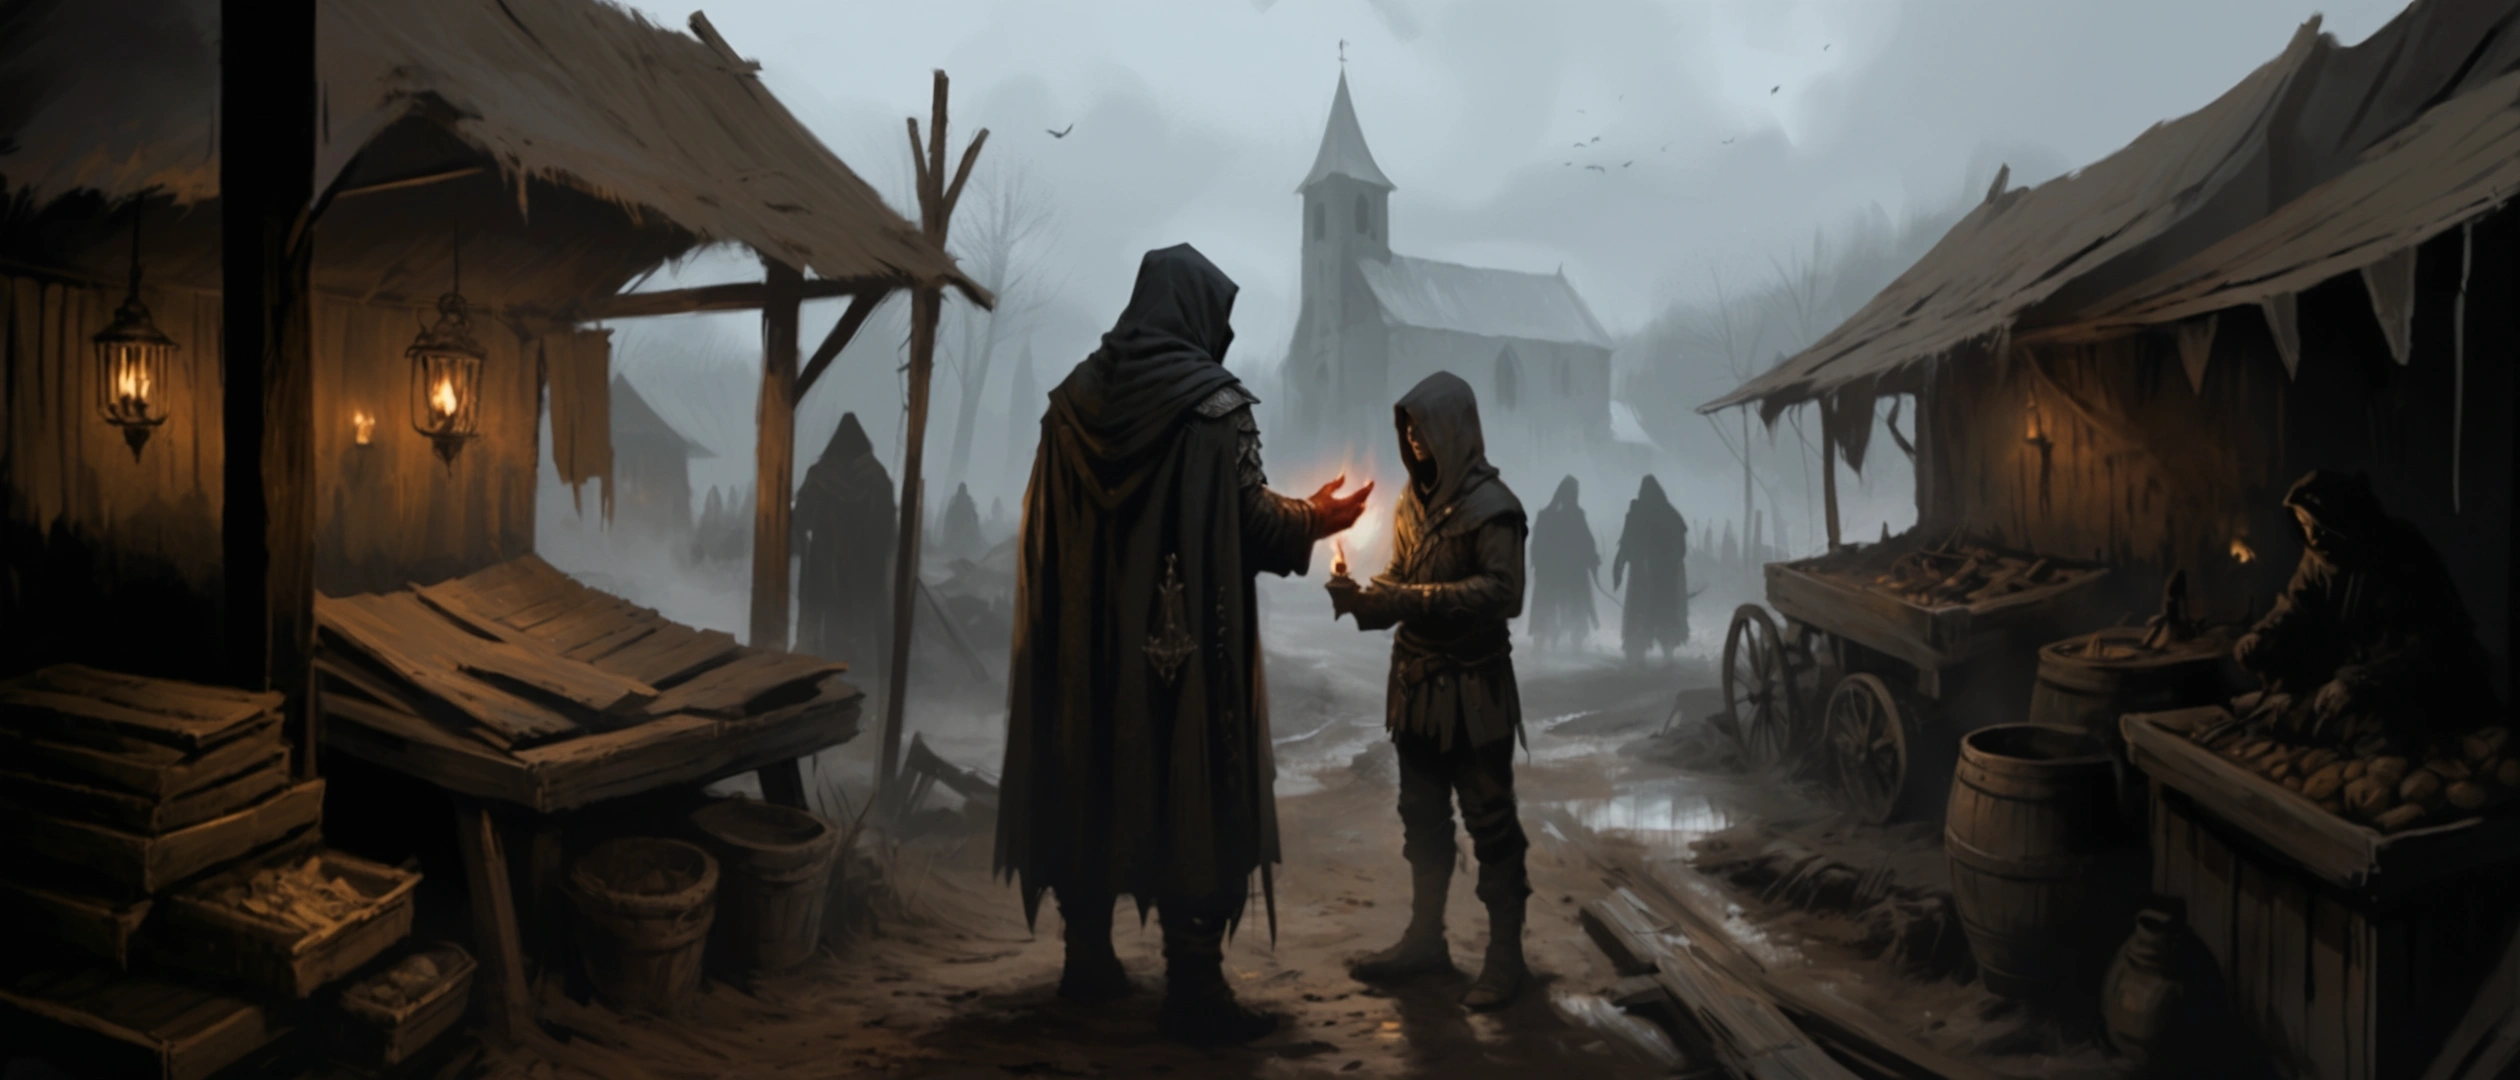
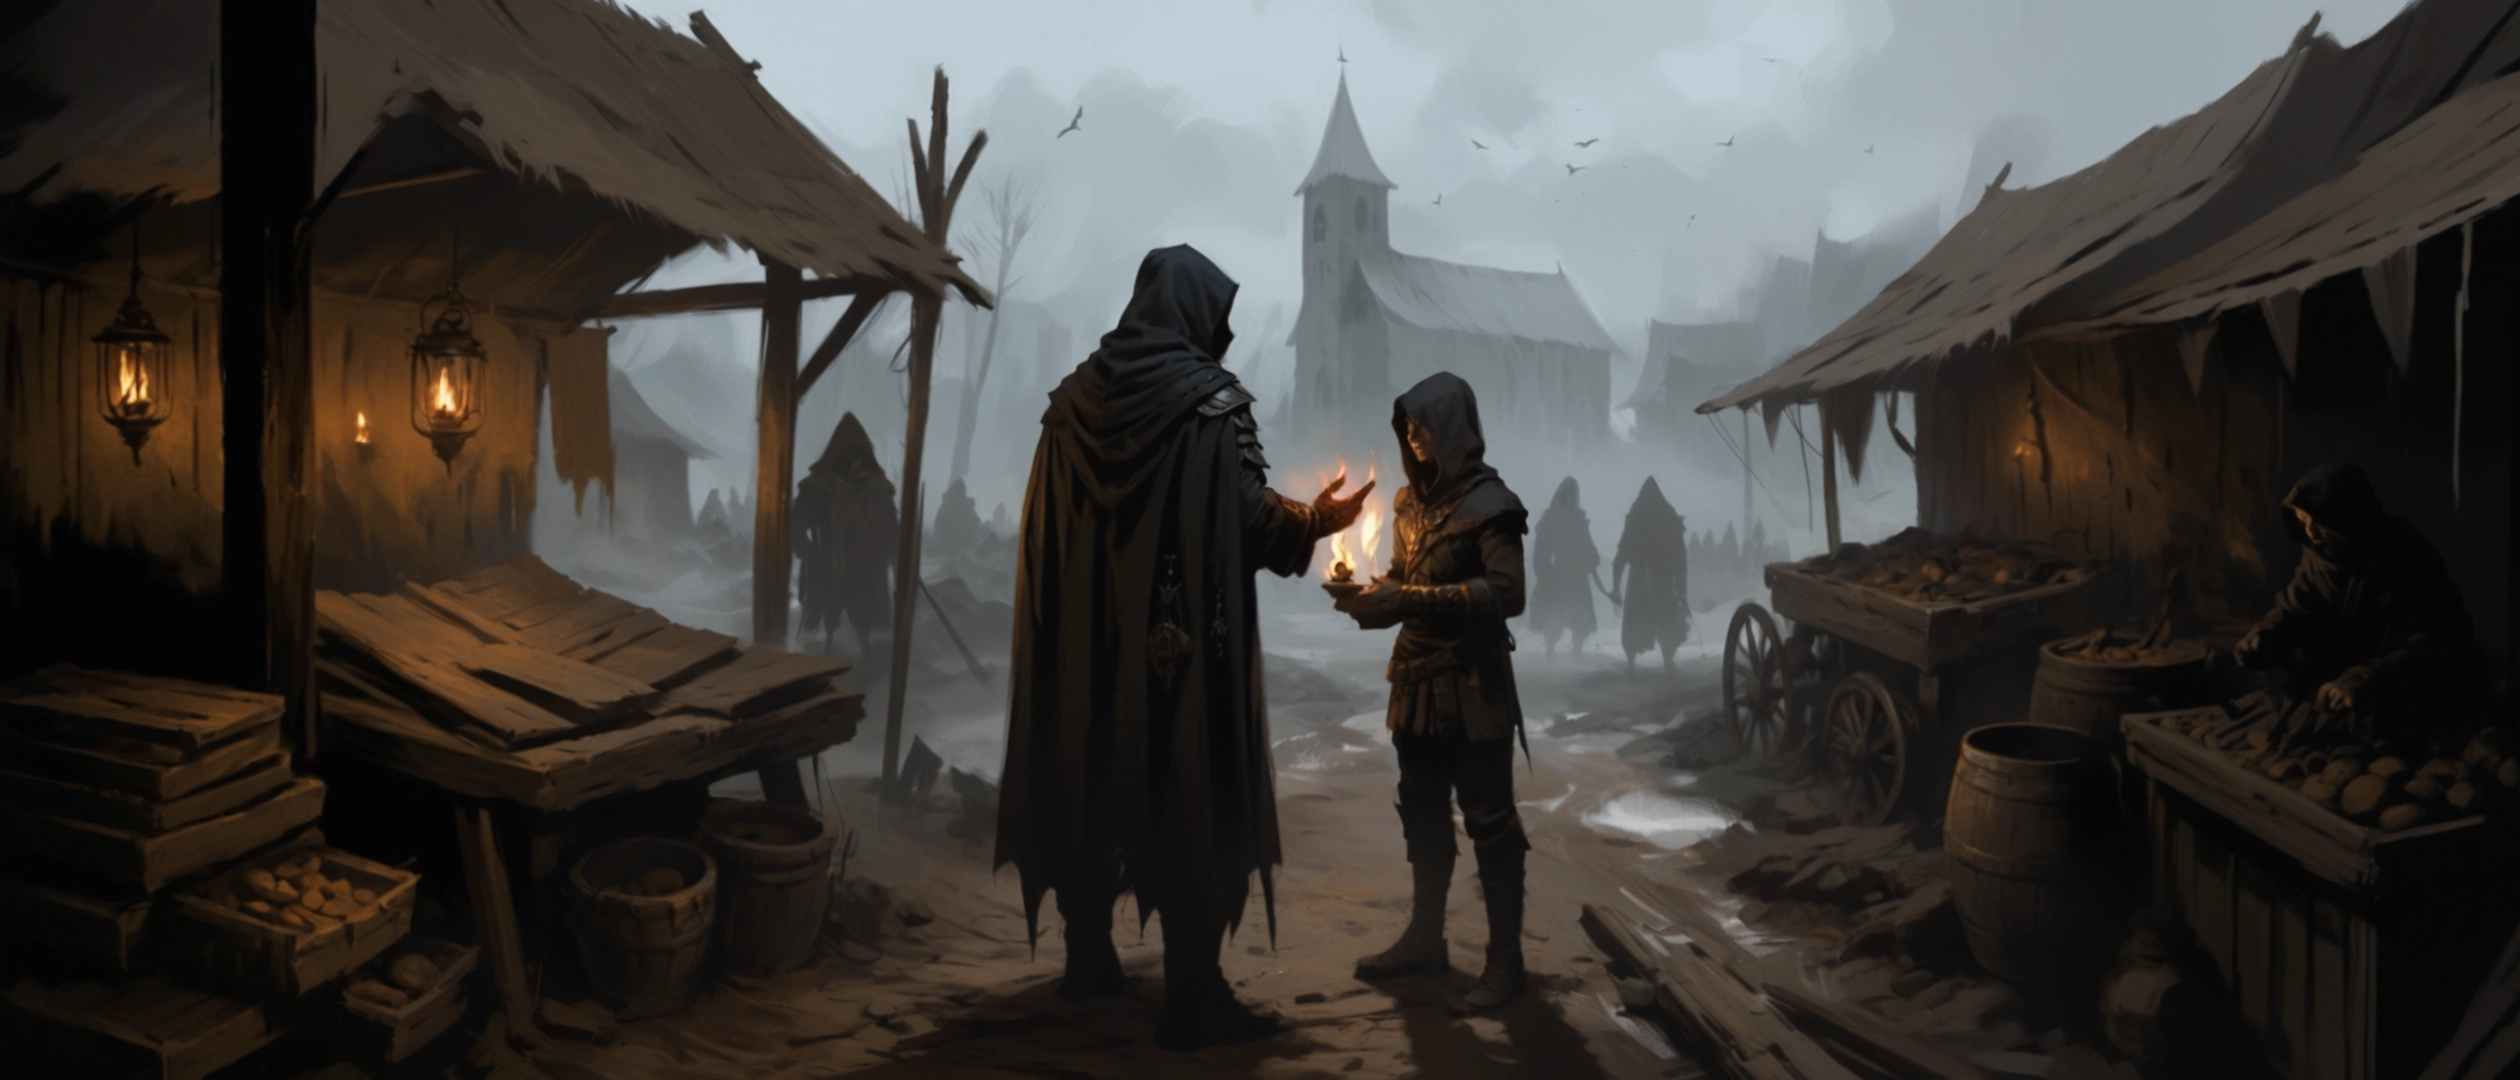
feat: refactor parallax and dynamic image components; improve animation context management and enhance visual effects

diff --git a/src/app/features/sticky-accordion/michael-acts/michael-acts.ts b/src/app/features/sticky-accordion/michael-acts/michael-acts.ts
@@ -26,28 +26,44 @@ gsap.registerPlugin(ScrollTrigger);
             </div>
 
             <nav class="list">
-                <app-act #stepItem (clicked)="goToStep($event, 0)" title="Lament nad Ciszą">
+                <app-act
+                    [class.selected]="activeIndex() === 0"
+                    (clicked)="goToStep($event, 0)"
+                    title="Lament nad Ciszą"
+                >
                     Michałek od dziecka nie wykrztusił ani słowa. Matka płakała w poduszkę,
                     batiuszka odprawiał egzorcyzmy, a wieś współczuła chłopcu, który żył w wiecznym,
                     głębokim milczeniu.
                 </app-act>
-                <app-act #stepItem (clicked)="goToStep($event, 1)" title="Odpustowy Kupiec">
+                <app-act
+                    [class.selected]="activeIndex() === 1"
+                    (clicked)="goToStep($event, 1)"
+                    title="Odpustowy Kupiec"
+                >
                     Podczas odpustu św. Antoniego, Michałek oddał pięćdziesiąt groszy skradzionych
                     ze skarbonki sołtysa wędrownemu handlarzowi. W zamian otrzymał zakazany owoc
                     cywilizacji: gumę Turbo z obrazkiem auta.
                 </app-act>
-                <app-act #stepItem (clicked)="goToStep($event, 2)" title="Trzy Dni Męki">
+                <app-act
+                    [class.selected]="activeIndex() === 2"
+                    (clicked)="goToStep($event, 2)"
+                    title="Trzy Dni Męki"
+                >
                     Smak owoców leśnych zniknął po dziesięciu sekundach, ale Michałek nie
                     odpuszczał. Żuł Tę Samą Gumę przez trzy dni i trzy noce. Mięśnie żuchwy
                     pracowały jak tłoki w parowozie, a guma zmieniła się w twardy jak skała kauczuk.
                 </app-act>
-                <app-act #stepItem (clicked)="goToStep($event, 3)" title="Ciemność Bolesna">
+                <app-act
+                    [class.selected]="activeIndex() === 3"
+                    (clicked)="goToStep($event, 3)"
+                    title="Ciemność Bolesna"
+                >
                     Trzeciego dnia ciśnienie w czaszce osiągnęło poziom krytyczny. Zgromadzona siła
                     w żuchwie wystrzeliła w nerwy wzrokowe. W oczach Michałka zapadła absolutna,
                     nieprzenikniona ciemność. Oślepł jak kret.
                 </app-act>
                 <app-act
-                    #stepItem
+                    [class.selected]="activeIndex() === 4"
                     (clicked)="goToStep($event, 4)"
                     title="Wielki Wrzask i Wielki Wstyd"
                 >
@@ -97,11 +113,9 @@ gsap.registerPlugin(ScrollTrigger);
 
                 .fill {
                     width: 100%;
-                    height: 100%;
+                    height: 0;
                     background-color: var(--story-accent);
                     box-shadow: 0 0 12px var(--story-accent);
-                    transform-origin: top left;
-                    scale: 1 0;
                 }
             }
 
@@ -135,71 +149,60 @@ gsap.registerPlugin(ScrollTrigger);
 })
 export class MichaelActs {
     private readonly hostRef = inject<ElementRef<HTMLElement>>(ElementRef);
-    private readonly stepItems = viewChildren<Act, ElementRef<HTMLElement>>(Act, {
-        read: ElementRef,
-    });
+    private readonly stepItems = viewChildren(Act);
     private readonly fill = viewChild.required<ElementRef<HTMLElement>>('fill');
 
     private readonly destroyRef = inject(DestroyRef);
 
     private readonly previousIndex = signal(0);
-    private readonly activeIndex = signal(0);
+    protected readonly activeIndex = signal(0);
     protected readonly progress = signal<number>(0);
-    protected readonly currentImageSrc = computed<string>(() => `michael/act-${this.activeIndex() + 1}.webp`);
-    protected readonly previousImageSrc = computed<string>(() => `michael/act-${this.previousIndex() + 1}.webp`);
+    protected readonly currentImageSrc = computed<string>(
+        () => `michael/act-${this.activeIndex() + 1}.webp`,
+    );
+    protected readonly previousImageSrc = computed<string>(
+        () => `michael/act-${this.previousIndex() + 1}.webp`,
+    );
 
-    private ctx!: gsap.Context;
     private st!: ScrollTrigger;
 
     constructor() {
-        afterNextRender(() => {
-            this.ctx = gsap.context(() => {
-                const steps = this.stepItems().map((item) => item.nativeElement);
-
-                steps[0].classList.add('selected');
-
-                this.st = ScrollTrigger.create({
-                    trigger: this.hostRef.nativeElement,
-                    start: 'top top',
-                    end: () => '+=' + steps.length * 100 + '%',
-                    pin: true,
-                    onUpdate: (self) => {
-                        this.progress.set(self.progress);
-                        const newIndex = Math.min(
-                            Math.floor(self.progress * steps.length),
-                            steps.length - 1,
-                        );
-                        if (newIndex !== this.activeIndex()) {
-                            this.updateStep(newIndex);
-                        }
-                    },
-                });
-
-                gsap.to(this.fill().nativeElement, {
-                    scaleY: 1,
-                    ease: 'none',
-                    scrollTrigger: {
-                        trigger: this.hostRef.nativeElement,
-                        start: 'top top',
-                        end: () => '+=' + steps.length * 100 + '%',
-                        scrub: true,
-                    },
-                });
-            });
-        });
-
-        this.destroyRef.onDestroy(() => {
-            this.ctx.revert();
-        });
+        let ctx: gsap.Context | undefined;
+        afterNextRender(() => (ctx = this.initAnimation()));
+        this.destroyRef.onDestroy(() => ctx?.revert());
     }
 
-    private updateStep(newIndex: number): void {
-        const steps = this.stepItems().map((item) => item.nativeElement);
+    private initAnimation(): gsap.Context {
+        return gsap.context(() => {
+            const stepCount = this.stepItems().length;
 
-        this.previousIndex.set(this.activeIndex());
-        this.activeIndex.set(newIndex);
+            this.st = ScrollTrigger.create({
+                trigger: this.hostRef.nativeElement,
+                start: 'top top',
+                end: () => '+=' + stepCount * 100 + '%',
+                pin: true,
+                onUpdate: (self) => {
+                    this.progress.set(self.progress);
+                    const newIndex = Math.min(Math.floor(self.progress * stepCount), stepCount - 1);
 
-        steps.forEach((step, i) => step.classList.toggle('selected', i === newIndex));
+                    if (newIndex !== this.activeIndex()) {
+                        this.previousIndex.set(this.activeIndex());
+                        this.activeIndex.set(newIndex);
+                    }
+                },
+            });
+
+            gsap.to(this.fill().nativeElement, {
+                height: '100%',
+                ease: 'none',
+                scrollTrigger: {
+                    trigger: this.hostRef.nativeElement,
+                    start: 'top top',
+                    end: () => '+=' + stepCount * 100 + '%',
+                    scrub: true,
+                },
+            });
+        });
     }
 
     protected goToStep(event: Event, index: number): void {

diff --git a/src/app/features/sticky-accordion/michael-background/michael-background.ts b/src/app/features/sticky-accordion/michael-background/michael-background.ts
@@ -1,4 +1,12 @@
-import { Component, ElementRef, input, OnDestroy, OnInit, viewChild } from '@angular/core';
+import {
+    afterNextRender,
+    Component,
+    DestroyRef,
+    ElementRef,
+    inject,
+    input,
+    viewChild,
+} from '@angular/core';
 import { Geometry, Mesh, Program, Renderer } from 'ogl';
 
 import vertexShader from '../../../core/shaders/shape.vert.glsl';
@@ -23,13 +31,16 @@ import fragmentShader from './smoke.frag.glsl';
         '(window:resize)': 'resize()',
     },
 })
-export class MichaelBackground implements OnInit, OnDestroy {
+export class MichaelBackground {
     public readonly progress = input.required<number>();
+    private readonly destroyRef = inject(DestroyRef);
+
     private currentProgress = 0;
 
     protected readonly canvasRef = viewChild.required<ElementRef<HTMLCanvasElement>>('canvas');
 
     private renderer!: Renderer;
+    private geometry!: Geometry;
     private program!: Program;
     private mesh!: Mesh;
     private animationFrameId!: number;
@@ -39,10 +50,14 @@ export class MichaelBackground implements OnInit, OnDestroy {
     private readonly resolutionUniform = { value: new Float32Array(2) };
     private readonly progressUniform = { value: 0 };
 
-    public ngOnInit(): void {
-        this.initRenderer();
-        this.resize();
-        this.animationFrameId = requestAnimationFrame(this.animate);
+    constructor() {
+        afterNextRender(() => {
+            this.initRenderer();
+            this.resize();
+            this.animationFrameId = requestAnimationFrame(this.animate);
+        });
+
+        this.destroyRef.onDestroy(() => this.dispose());
     }
 
     private initRenderer(): void {
@@ -55,7 +70,7 @@ export class MichaelBackground implements OnInit, OnDestroy {
         });
         const gl = this.renderer.gl;
 
-        const geometry = new Geometry(gl, {
+        this.geometry = new Geometry(gl, {
             position: { size: 2, data: new Float32Array([-1, -1, 3, -1, -1, 3]) },
             uv: { size: 2, data: new Float32Array([0, 0, 2, 0, 0, 2]) },
         });
@@ -71,7 +86,7 @@ export class MichaelBackground implements OnInit, OnDestroy {
             transparent: true,
         });
 
-        this.mesh = new Mesh(gl, { geometry, program: this.program });
+        this.mesh = new Mesh(gl, { geometry: this.geometry, program: this.program });
     }
 
     private readonly animate = (time: number): void => {
@@ -99,7 +114,9 @@ export class MichaelBackground implements OnInit, OnDestroy {
         this.resolutionUniform.value[1] = gl.canvas.height;
     }
 
-    public ngOnDestroy(): void {
+    private dispose(): void {
         cancelAnimationFrame(this.animationFrameId);
+        this.geometry.remove();
+        this.program.remove();
     }
 }

diff --git a/src/app/features/sticky-accordion/michael-acts/dynamic-image/dynamic-image.ts b/src/app/features/sticky-accordion/michael-acts/dynamic-image/dynamic-image.ts
@@ -1,12 +1,4 @@
-import {
-    Component,
-    effect,
-    ElementRef,
-    input,
-    OnDestroy,
-    OnInit,
-    viewChild,
-} from '@angular/core';
+import { Component, effect, ElementRef, input, OnDestroy, OnInit, viewChild } from '@angular/core';
 import { Geometry, Mesh, Program, Renderer, Texture } from 'ogl';
 
 import vertexShader from '../../../../core/shaders/shape.vert.glsl';
@@ -42,6 +34,7 @@ export class DynamicImage implements OnInit, OnDestroy {
         uTexture: { value: null as Texture | null },
         uTime: { value: 0 },
         uProgress: { value: 0 },
+        uResolution: { value: new Float32Array(2) },
     };
     private animationFrameId!: number;
     private previousFrameTime?: number;
@@ -92,7 +85,7 @@ export class DynamicImage implements OnInit, OnDestroy {
         this.currentProgress += (this.progress() - this.currentProgress) * 0.05;
         this.transitionPass.render(time);
         this.storyUniforms.uTexture.value = this.transitionPass.texture;
-        this.storyUniforms.uTime.value += deltaTime;
+        this.storyUniforms.uTime.value += deltaTime * (1 + this.currentProgress * 3);
         this.storyUniforms.uProgress.value = this.currentProgress;
         this.renderer.render({ scene: this.storyEffect });
         this.animationFrameId = requestAnimationFrame(this.animate);
@@ -107,6 +100,8 @@ export class DynamicImage implements OnInit, OnDestroy {
 
         const gl = this.renderer.gl;
         this.transitionPass.resize(gl.canvas.width, gl.canvas.height);
+        this.storyUniforms.uResolution.value[0] = width;
+        this.storyUniforms.uResolution.value[1] = height;
     }
 
     public ngOnDestroy(): void {

diff --git a/src/app/features/sticky-accordion/sticky-accordion.ts b/src/app/features/sticky-accordion/sticky-accordion.ts
@@ -1,11 +1,4 @@
-import {
-    afterNextRender,
-    Component,
-    DestroyRef,
-    ElementRef,
-    inject,
-    signal,
-} from '@angular/core';
+import { afterNextRender, Component, DestroyRef, ElementRef, inject, signal } from '@angular/core';
 import { MichaelIntro } from './michael-intro';
 import { MichaelEpilogue } from './michael-epilogue';
 import { MichaelActs } from './michael-acts/michael-acts';
@@ -49,13 +42,13 @@ gsap.registerPlugin(ScrollTrigger);
 export class StickyAccordion {
     private readonly hostRef = inject<ElementRef<HTMLElement>>(ElementRef);
     private readonly destroyRef = inject(DestroyRef);
-    private ctx?: globalThis.ScrollTrigger;
 
     protected readonly progress = signal<number>(0);
 
     constructor() {
-        afterNextRender(() => (this.ctx = this.initAnimation()));
-        this.destroyRef.onDestroy(() => this.ctx?.kill());
+        let ctx: globalThis.ScrollTrigger | undefined;
+        afterNextRender(() => (ctx = this.initAnimation()));
+        this.destroyRef.onDestroy(() => ctx?.kill());
     }
 
     private initAnimation(): globalThis.ScrollTrigger {

diff --git a/src/app/features/cow-parallax/parallax/parallax.ts b/src/app/features/cow-parallax/parallax/parallax.ts
@@ -34,25 +34,19 @@ gsap.registerPlugin(ScrollTrigger);
     styleUrl: './parallax.css',
 })
 export class Parallax {
-    private ctx?: gsap.Context;
-
     private readonly hostRef = inject<ElementRef<HTMLElement>>(ElementRef);
     protected readonly layerElements = viewChildren<ElementRef<HTMLImageElement>>('layerEl');
 
     private readonly destroyRef = inject(DestroyRef);
 
     constructor() {
-        afterNextRender(() => {
-            this.initParallaxAnimation();
-        });
-
-        this.destroyRef.onDestroy(() => {
-            this.ctx?.revert();
-        });
+        let ctx: gsap.Context | undefined;
+        afterNextRender(() => (ctx = this.initParallaxAnimation()));
+        this.destroyRef.onDestroy(() => ctx?.revert());
     }
 
-    private initParallaxAnimation(): void {
-        this.ctx = gsap.context(() => {
+    private initParallaxAnimation(): gsap.Context {
+        return gsap.context(() => {
             const h = this.hostRef.nativeElement.offsetHeight;
 
             this.layerElements().forEach((layerRef) => {

diff --git a/src/app/features/sticky-accordion/michael-epilogue.ts b/src/app/features/sticky-accordion/michael-epilogue.ts
@@ -88,7 +88,6 @@ gsap.registerPlugin(ScrollTrigger);
 export class MichaelEpilogue {
     private readonly hostRef = inject<ElementRef<HTMLElement>>(ElementRef);
     private readonly onDestroy = inject(DestroyRef);
-    private ctx?: gsap.Context;
 
     protected readonly isDone = signal<boolean>(false);
     protected readonly visibleWordsCount = signal<number>(0);
@@ -98,8 +97,9 @@ export class MichaelEpilogue {
     protected readonly words = this.rawQuote.split(' ');
 
     constructor() {
-        afterNextRender(() => (this.ctx = this.initAnimation()));
-        this.onDestroy.onDestroy(() => this.ctx?.revert());
+        let ctx: gsap.Context | undefined;
+        afterNextRender(() => (ctx = this.initAnimation()));
+        this.onDestroy.onDestroy(() => ctx?.revert());
     }
 
     private initAnimation(): gsap.Context {

diff --git a/src/app/features/sticky-accordion/michael-intro.ts b/src/app/features/sticky-accordion/michael-intro.ts
@@ -152,13 +152,13 @@ gsap.registerPlugin(ScrollTrigger);
 export class MichaelIntro {
     private readonly hostRef = inject<ElementRef<HTMLElement>>(ElementRef);
     private readonly onDestroy = inject(DestroyRef);
-    private ctx?: gsap.Context;
 
     protected readonly step = signal<'title' | 'subtitle' | 'quote'>('title');
 
     constructor() {
-        afterNextRender(() => (this.ctx = this.initAnimation()));
-        this.onDestroy.onDestroy(() => this.ctx?.revert());
+        let ctx: gsap.Context | undefined;
+        afterNextRender(() => (ctx = this.initAnimation()));
+        this.onDestroy.onDestroy(() => ctx?.revert());
     }
 
     private initAnimation(): gsap.Context {
